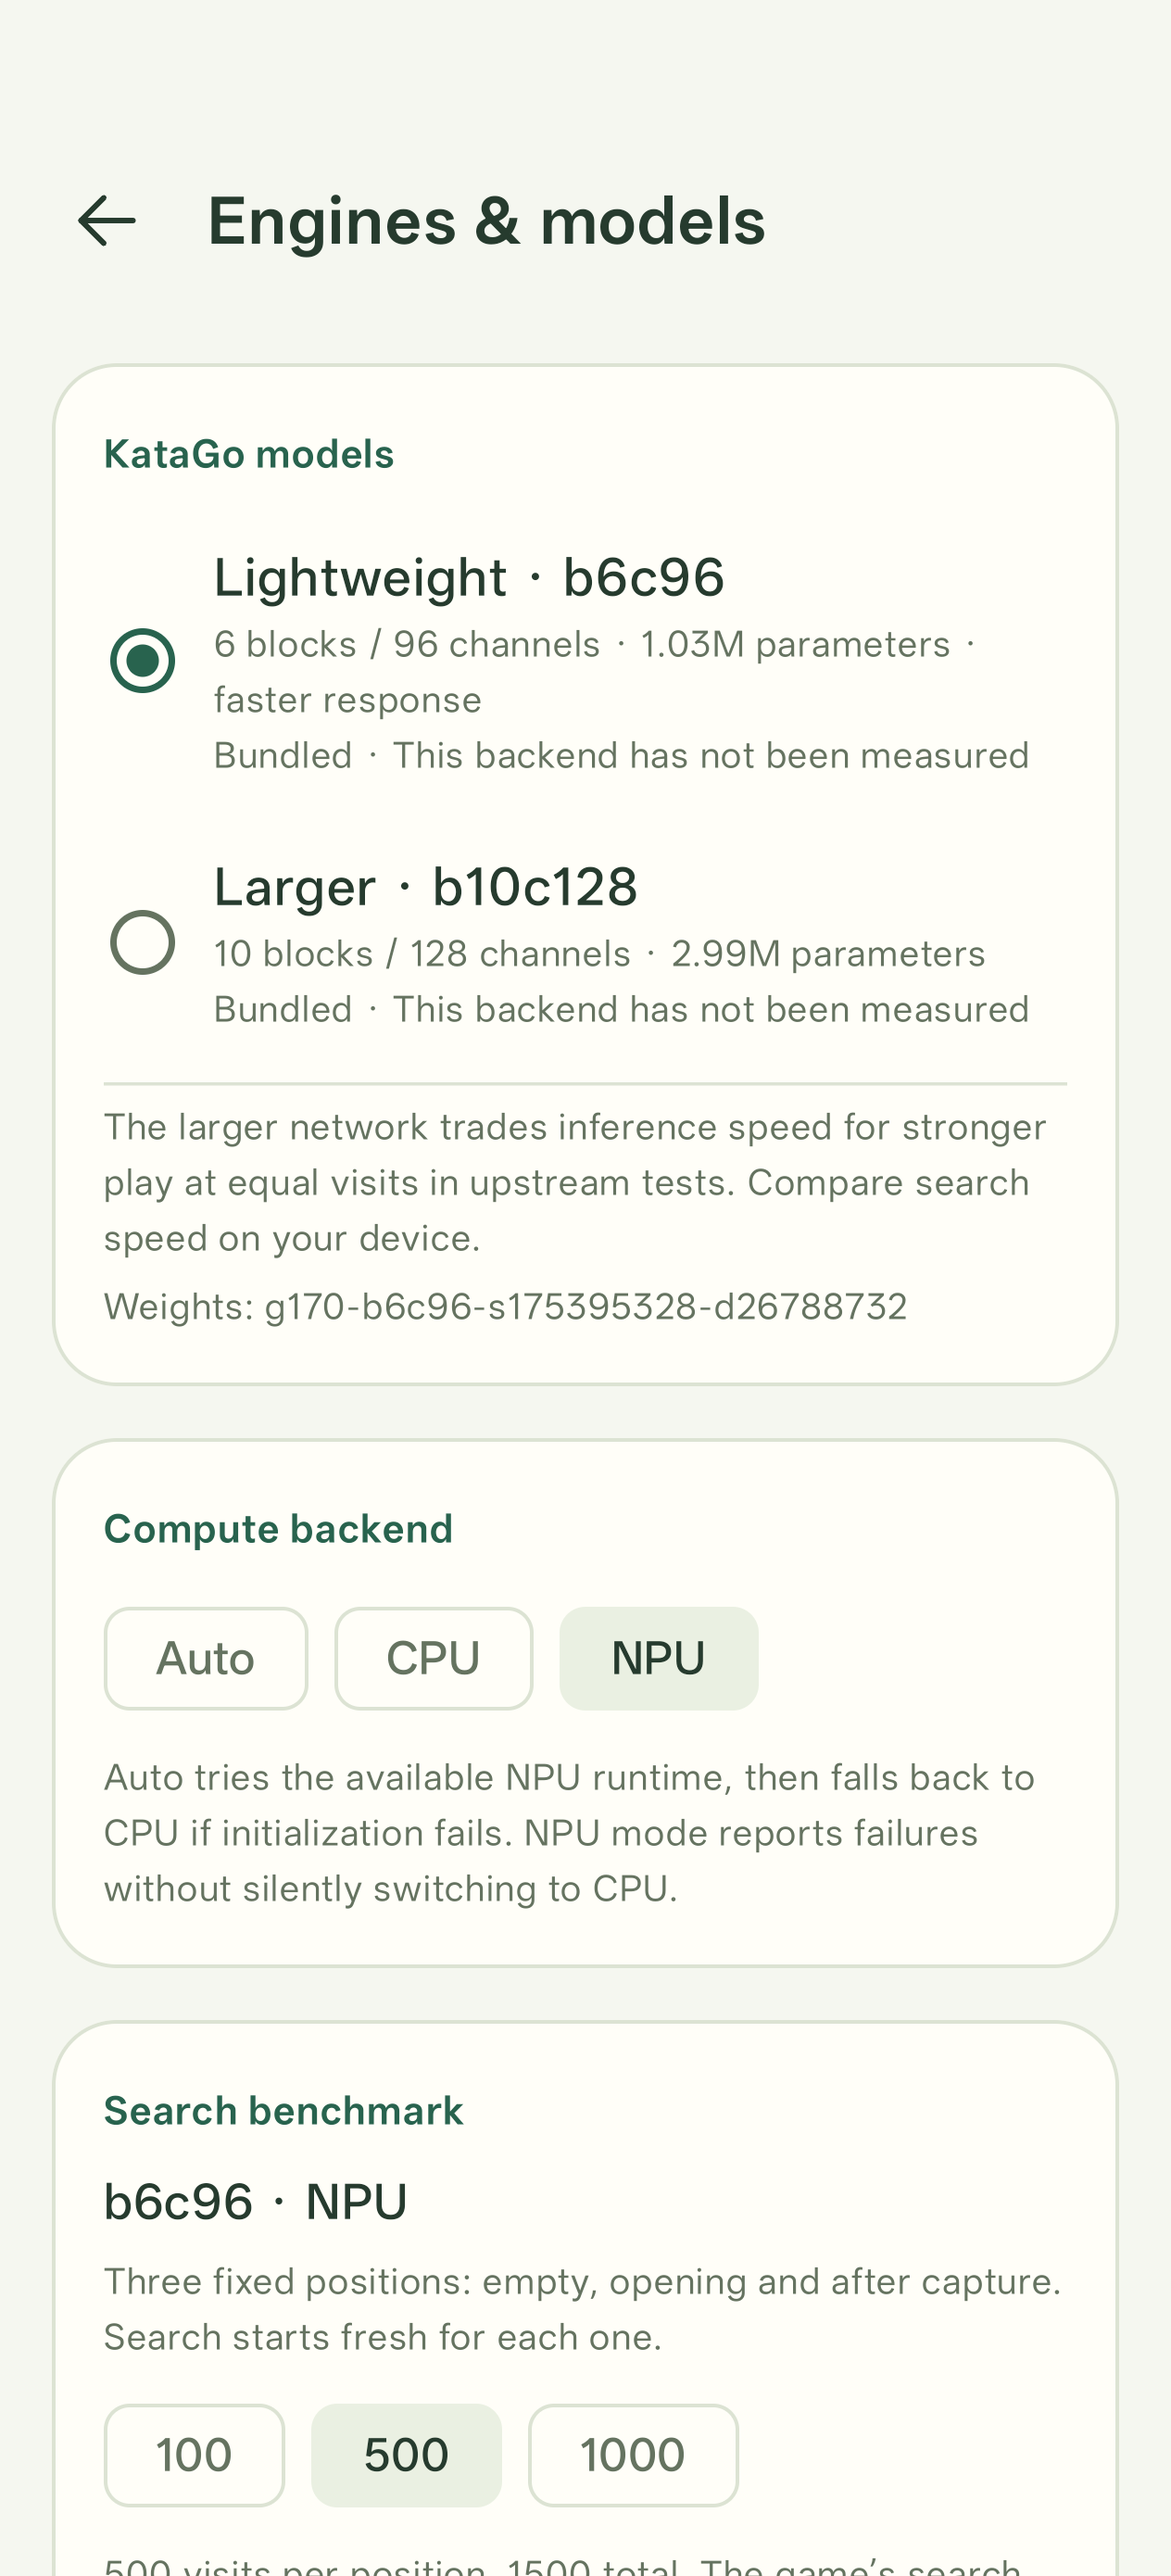
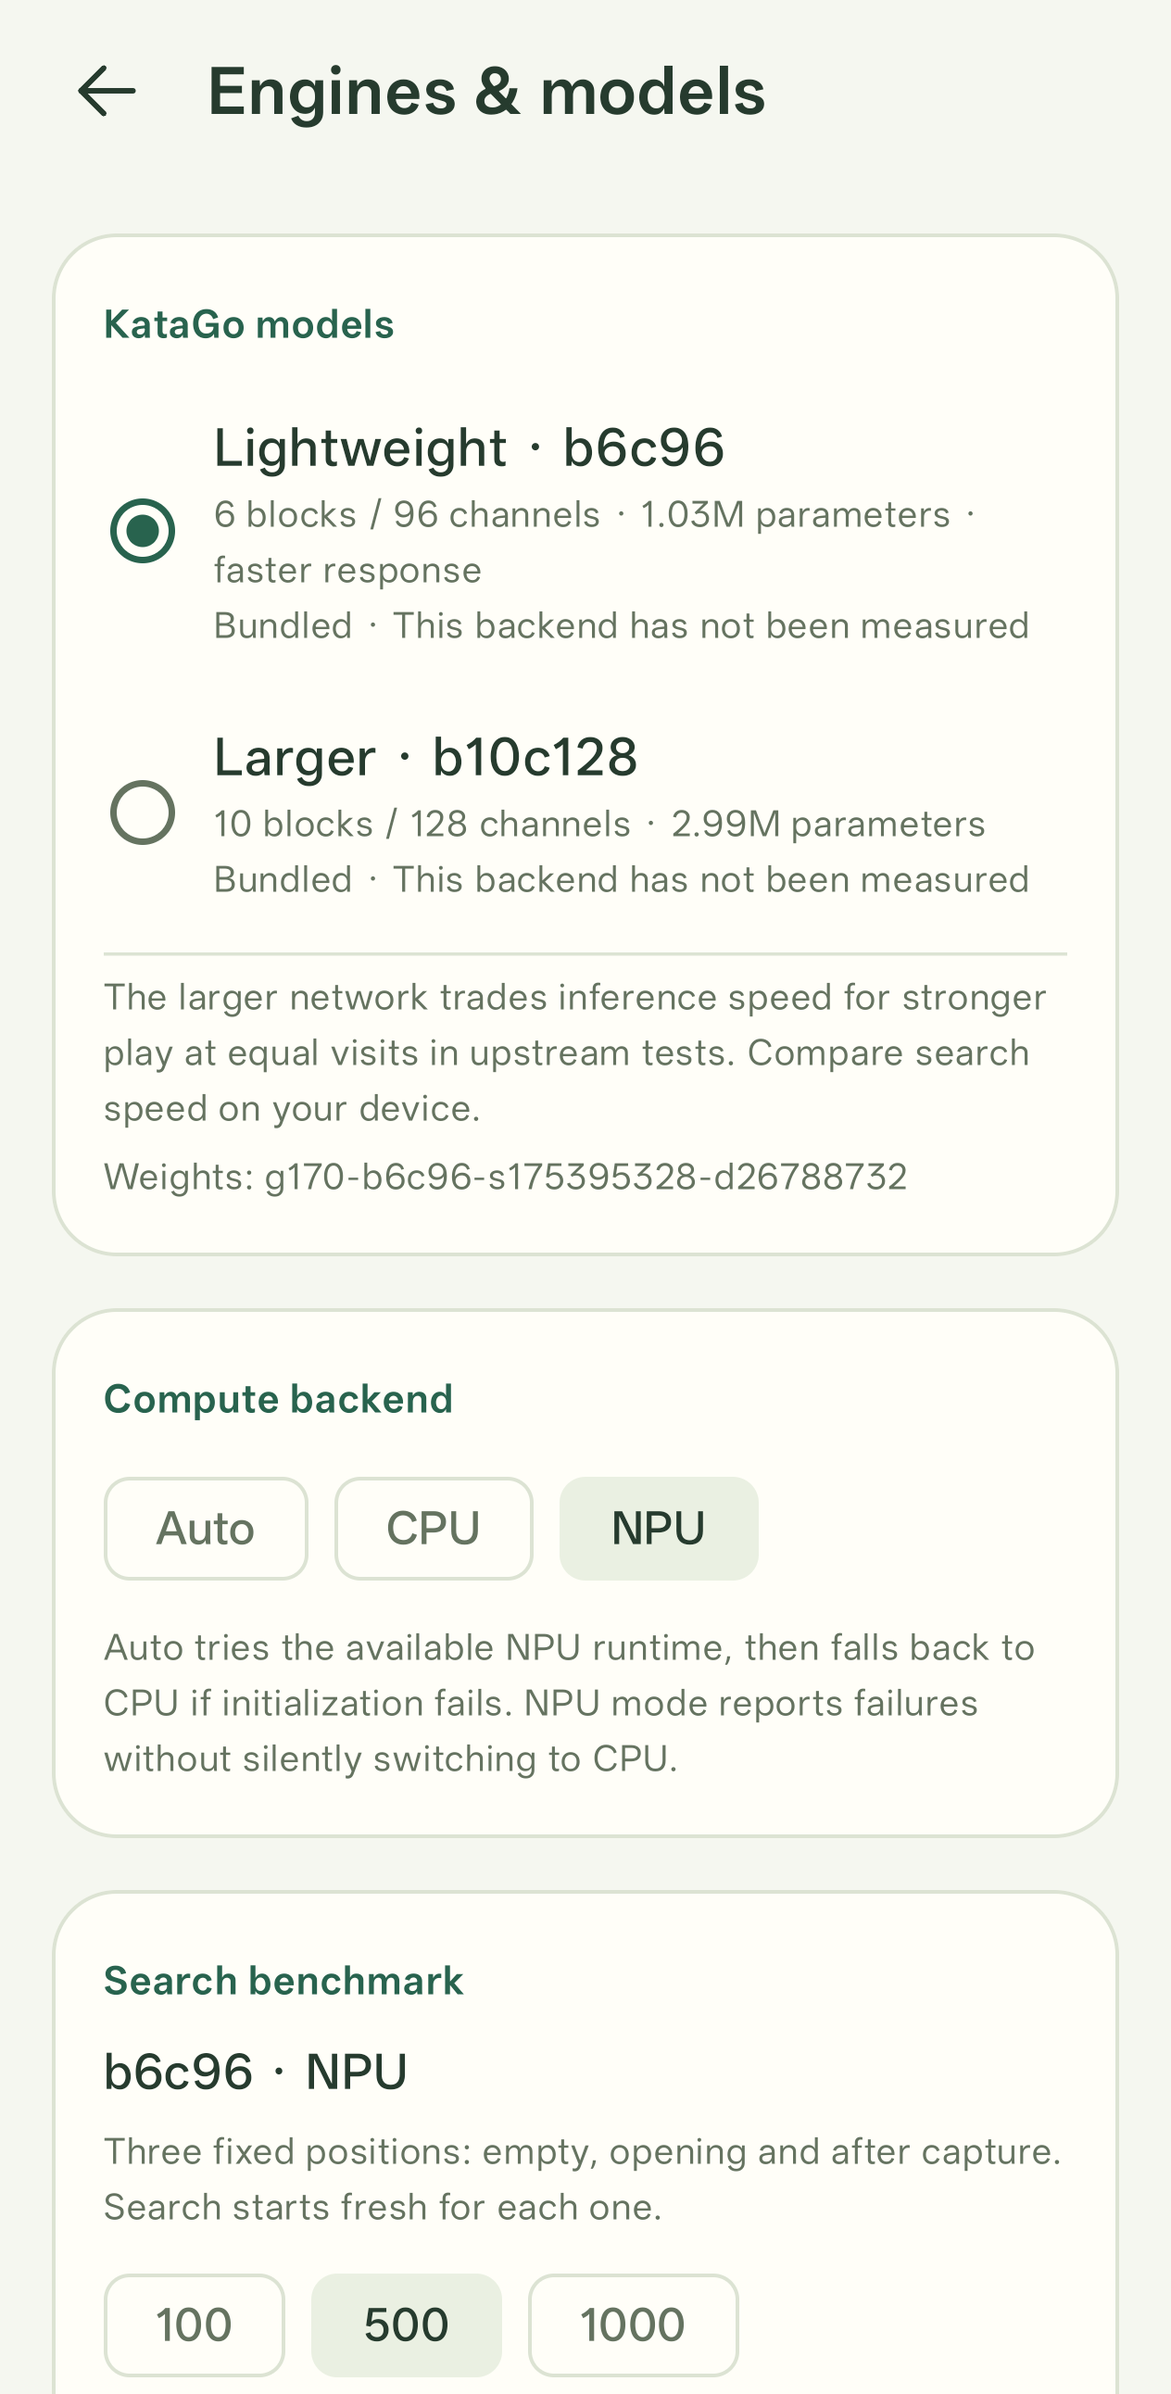
Publish separate ABI release APKs and align README screenshots

diff --git a/tools/check_release_apk.py b/tools/check_release_apk.py
@@ -1,10 +1,14 @@
 """Require both model pairs and both vendors' arm64 NPU plugins in a release APK."""
-import sys
+import argparse
 import zipfile
 
 
 def main():
-    with zipfile.ZipFile(sys.argv[1]) as apk:
+    parser = argparse.ArgumentParser(description=__doc__)
+    parser.add_argument("apk")
+    parser.add_argument("--abis", nargs="+", choices=("arm64-v8a", "x86_64"), default=["arm64-v8a", "x86_64"])
+    args = parser.parse_args()
+    with zipfile.ZipFile(args.apk) as apk:
         required_libs = (
             "libLiteRtCompilerPlugin_Qualcomm.so",
             "libLiteRtDispatch_Qualcomm.so",
@@ -14,7 +18,10 @@ def main():
             "libLiteRtDispatch_MediaTek.so",
         )
         names = set(apk.namelist())
-        for library in required_libs:
+        actual_abis = {name.split("/")[1] for name in names if name.startswith("lib/") and name.endswith(".so")}
+        if actual_abis != set(args.abis):
+            raise RuntimeError(f"Expected ABIs {args.abis}, found {sorted(actual_abis)}")
+        for library in required_libs if "arm64-v8a" in args.abis else ():
             path = f"lib/arm64-v8a/{library}"
             if path not in names:
                 raise RuntimeError(f"Release APK is missing {path}")
@@ -22,7 +29,7 @@ def main():
             if (header[:5] != b"\x7fELF\x02" or header[5] != 1
                     or int.from_bytes(header[18:20], "little") != 183):
                 raise RuntimeError(f"Expected arm64 ELF library: {path}")
-        for abi in ("arm64-v8a", "x86_64"):
+        for abi in args.abis:
             if f"lib/{abi}/libkatadroid.so" not in names:
                 raise RuntimeError(f"Release APK is missing KataGo for {abi}")
         for model in ("b6c96", "b10c128"):
@@ -30,7 +37,7 @@ def main():
                 path = f"assets/katago/{model}.{extension}"
                 if path not in names:
                     raise RuntimeError(f"Release APK is missing model asset {path}")
-    print("Release APK contains both ABIs, both networks and both vendors' NPU plugins.")
+    print(f"Release APK verified: {', '.join(args.abis)}, both networks, and NPU plugins when arm64 is included.")
 
 
 if __name__ == "__main__":

diff --git a/tools/tests/test_split_release_apk.py b/tools/tests/test_split_release_apk.py
@@ -1,0 +1,40 @@
+import tempfile
+import unittest
+from pathlib import Path
+import zipfile
+from tools.split_release_apk import split_apk
+
+
+class SplitApkTest(unittest.TestCase):
+    def test_both_variants_preserve_shared_and_matching_native_entries(self):
+        entries = {
+            "AndroidManifest.xml": b"manifest",
+            "classes.dex": b"bytecode",
+            "assets/katago/b6c96.tflite": b"model",
+            "lib/arm64-v8a/libkatadroid.so": b"arm64",
+            "lib/x86_64/libkatadroid.so": b"x86",
+            "META-INF/CERT.RSA": b"obsolete signature",
+            "META-INF/library.kotlin_module": b"metadata",
+        }
+        with tempfile.TemporaryDirectory() as directory:
+            source = Path(directory) / "universal.apk"
+            with zipfile.ZipFile(source, "w") as apk:
+                for name, data in entries.items():
+                    apk.writestr(name, data)
+            before = source.read_bytes()
+            split_apk(source, Path(directory) / "variants")
+            self.assertEqual(before, source.read_bytes())
+            for abi in ("arm64-v8a", "x86_64"):
+                expected = {name: data for name, data in entries.items()
+                            if name != "META-INF/CERT.RSA" and
+                            (not name.startswith("lib/") or name.startswith(f"lib/{abi}/"))}
+                with zipfile.ZipFile(Path(directory) / "variants" / f"{abi}-unsigned.apk") as apk:
+                    self.assertEqual(expected, {name: apk.read(name) for name in apk.namelist()})
+
+    def test_unsupported_abi_is_rejected(self):
+        with tempfile.TemporaryDirectory() as directory:
+            source = Path(directory) / "armv7.apk"
+            with zipfile.ZipFile(source, "w") as apk:
+                apk.writestr("lib/armeabi-v7a/libkatadroid.so", b"armv7")
+            with self.assertRaises(ValueError):
+                split_apk(source, Path(directory) / "variants")

diff --git a/tools/split_release_apk.py b/tools/split_release_apk.py
@@ -1,0 +1,44 @@
+"""Create standalone ABI APKs from one build; outputs must be aligned and signed."""
+import argparse
+import copy
+from pathlib import Path
+import re
+import zipfile
+
+ABIS = ("arm64-v8a", "x86_64")
+SIGNATURE = re.compile(r"META-INF/(?:MANIFEST\.MF|[^/]+\.(?:SF|RSA|DSA|EC))$", re.IGNORECASE)
+
+
+def split_apk(source: Path, destination: Path):
+    destination.mkdir(parents=True, exist_ok=True)
+    with zipfile.ZipFile(source) as original:
+        present = {name.split("/")[1] for name in original.namelist()
+                   if name.startswith("lib/") and name.endswith(".so")}
+        if present != set(ABIS):
+            raise ValueError(f"Expected a universal arm64/x86_64 APK, found {sorted(present)}")
+        for abi in ABIS:
+            output = destination / f"{abi}-unsigned.apk"
+            if output.resolve() == source.resolve():
+                raise ValueError("Output cannot replace the source APK")
+            with zipfile.ZipFile(output, "w") as variant:
+                for entry in original.infolist():
+                    # Strip prior v1 signatures; v2/v3 blocks are outside ZIP entries.
+                    if SIGNATURE.fullmatch(entry.filename):
+                        continue
+                    parts = entry.filename.split("/")
+                    if parts[0] == "lib" and len(parts) > 2 and parts[1] != abi:
+                        continue
+                    variant.writestr(copy.copy(entry), original.read(entry))
+            print(f"Created {abi} APK; shared code/resources and retained native binaries are unchanged.")
+
+
+def main():
+    parser = argparse.ArgumentParser(description=__doc__)
+    parser.add_argument("source", type=Path)
+    parser.add_argument("destination", type=Path)
+    args = parser.parse_args()
+    split_apk(args.source, args.destination)
+
+
+if __name__ == "__main__":
+    main()

diff --git a/README.md b/README.md
@@ -36,6 +36,10 @@ neural inference. No account or analysis server is required.
 
 ## How to use
 
+Download from [GitHub Releases](https://github.com/zhzy0077/KataDroid/releases).
+Choose **arm64-v8a** for phones and tablets, **x86_64** for x86 devices/emulators,
+or the universal APK for both architectures. ARMv7 is not supported.
+
 Build and install the app using the instructions below. Open the three-dot menu
 to **Clear board**, **Import SGF**, **Export SGF** or open **Settings**. Tap an
 intersection to play. The KataGo switch enables analysis; both colors are manual
@@ -58,7 +62,7 @@ APK, the device's vendor drivers and the selected network.
 | Device / SoC or environment | Backend | Current test coverage |
 | --- | --- | --- |
 | Qualcomm Snapdragon 8 Elite device | LiteRT / QNN NPU | b6c96 numerical, search and native delegation checks passed. The combined both-model benchmark/lifecycle audit did not complete; b10c128 performance remains unverified. |
-| MediaTek MT6989 device | LiteRT / Neuron NPU, experimental | b6c96 and b10c128 numerical, search/lifecycle and benchmark checks passed with native delegation evidence, using patched plugins. |
+| MediaTek Dimensity 9300 (MT6989) device | LiteRT / Neuron NPU, experimental | b6c96 and b10c128 numerical, search/lifecycle and benchmark checks passed with native delegation evidence, using patched plugins. |
 | Android Studio x86_64 AVD, API 37 | CPU | UI and CPU regression baseline; performance depends on the host computer. |
 | Other phones / SoCs | CPU; NPU where a compatible runtime is available | Compatibility feedback welcome. The results above do not establish support for other SoC generations or every phone with the same SoC. |
 
@@ -78,7 +82,7 @@ positions after a 32-visit warm-up; all results below use debug builds.
 | Environment / actual backend | Visits per position | b6c96 visits/s | b10c128 visits/s |
 | --- | ---: | ---: | ---: |
 | Snapdragon 8 Elite / NPU, Android 17 | 500 | 665.0 (exploratory) | Unverified |
-| MediaTek MT6989 / NPU, Android 16 | 500 | 276.1 | 225.9 |
+| MediaTek Dimensity 9300 (MT6989) / NPU, Android 16 | 500 | 276.1 | 225.9 |
 | Android Studio API 37 AVD / CPU | 100 | 121.8 | 44.8 |
 
 The Snapdragon b6 result is from a completed individual measurement; the combined
@@ -130,8 +134,8 @@ adb -s <target-serial> install -r app/build/outputs/apk/debug/app-debug.apk
 The included assets make a CPU build possible without Python, model downloads or
 conversion tools. For the optional NPU plugins, see [NPU setup](docs/npu.md).
 Release APKs require your own signing configuration; never commit signing keys.
-Pushing a version tag such as `v1.0.0` builds a signed APK and publishes it as a
-GitHub Release once the repository's signing secrets are configured. See
+Pushing a version tag such as `v1.0.0` builds signed arm64-v8a, x86_64 and
+universal APKs and publishes them as a GitHub Release once the repository's signing secrets are configured. See
 [tagged APK release setup](CONTRIBUTING.md#tagged-apk-releases).
 
 ```bash

diff --git a/CONTRIBUTING.md b/CONTRIBUTING.md
@@ -67,13 +67,20 @@ distributing source or binaries; optional vendor runtimes have their own terms.
 
 [Release APK](.github/workflows/release.yml) runs when a tag such as `v1.0.0` or
 `v1.0.0-rc.1` is pushed. It checks integrity, runs unit tests and release lint,
-builds and verifies a signed universal APK, then creates a GitHub Release with
-the APK and `SHA256SUMS`. The release stays a draft until asset uploads succeed.
+builds once, then aligns, signs and verifies standalone arm64-v8a and x86_64
+APKs plus a universal APK. It creates a GitHub Release with all three APKs and
+`SHA256SUMS`. Shared code, resources, models and retained native libraries are
+identical across variants. ARMv7 is not supported. The release stays a draft
+until asset uploads succeed.
 Tags with a prerelease suffix create prereleases.
-These APKs contain both bundled models, CPU inference, Qualcomm NPU plugins and
-experimental MediaTek NPU plugins built with the runtime selection patch. The
-workflow checks that both vendors' plugins are present before publishing. Plugin
-packaging does not validate execution on every SoC; physical NPU audits and AVD
+For an existing universal release, run [Add ABI release APKs](.github/workflows/package-release.yml)
+with its tag. This downloads and checks the original APK, derives and signs the
+ABI variants with the same certificate, and adds them plus updated checksums.
+The original universal APK and published tag stay unchanged.
+All APKs contain both bundled models and CPU inference. Arm64 and universal
+APKs also contain Qualcomm NPU plugins and experimental MediaTek NPU plugins
+built with the runtime selection patch. The workflow checks ABI contents and
+both vendors' arm64 plugins before publishing. Plugin packaging does not validate execution on every SoC; physical NPU audits and AVD
 UI tests remain separate checks.
 
 MediaTek's hermetic host compiler dependencies need substantial disk space. The
